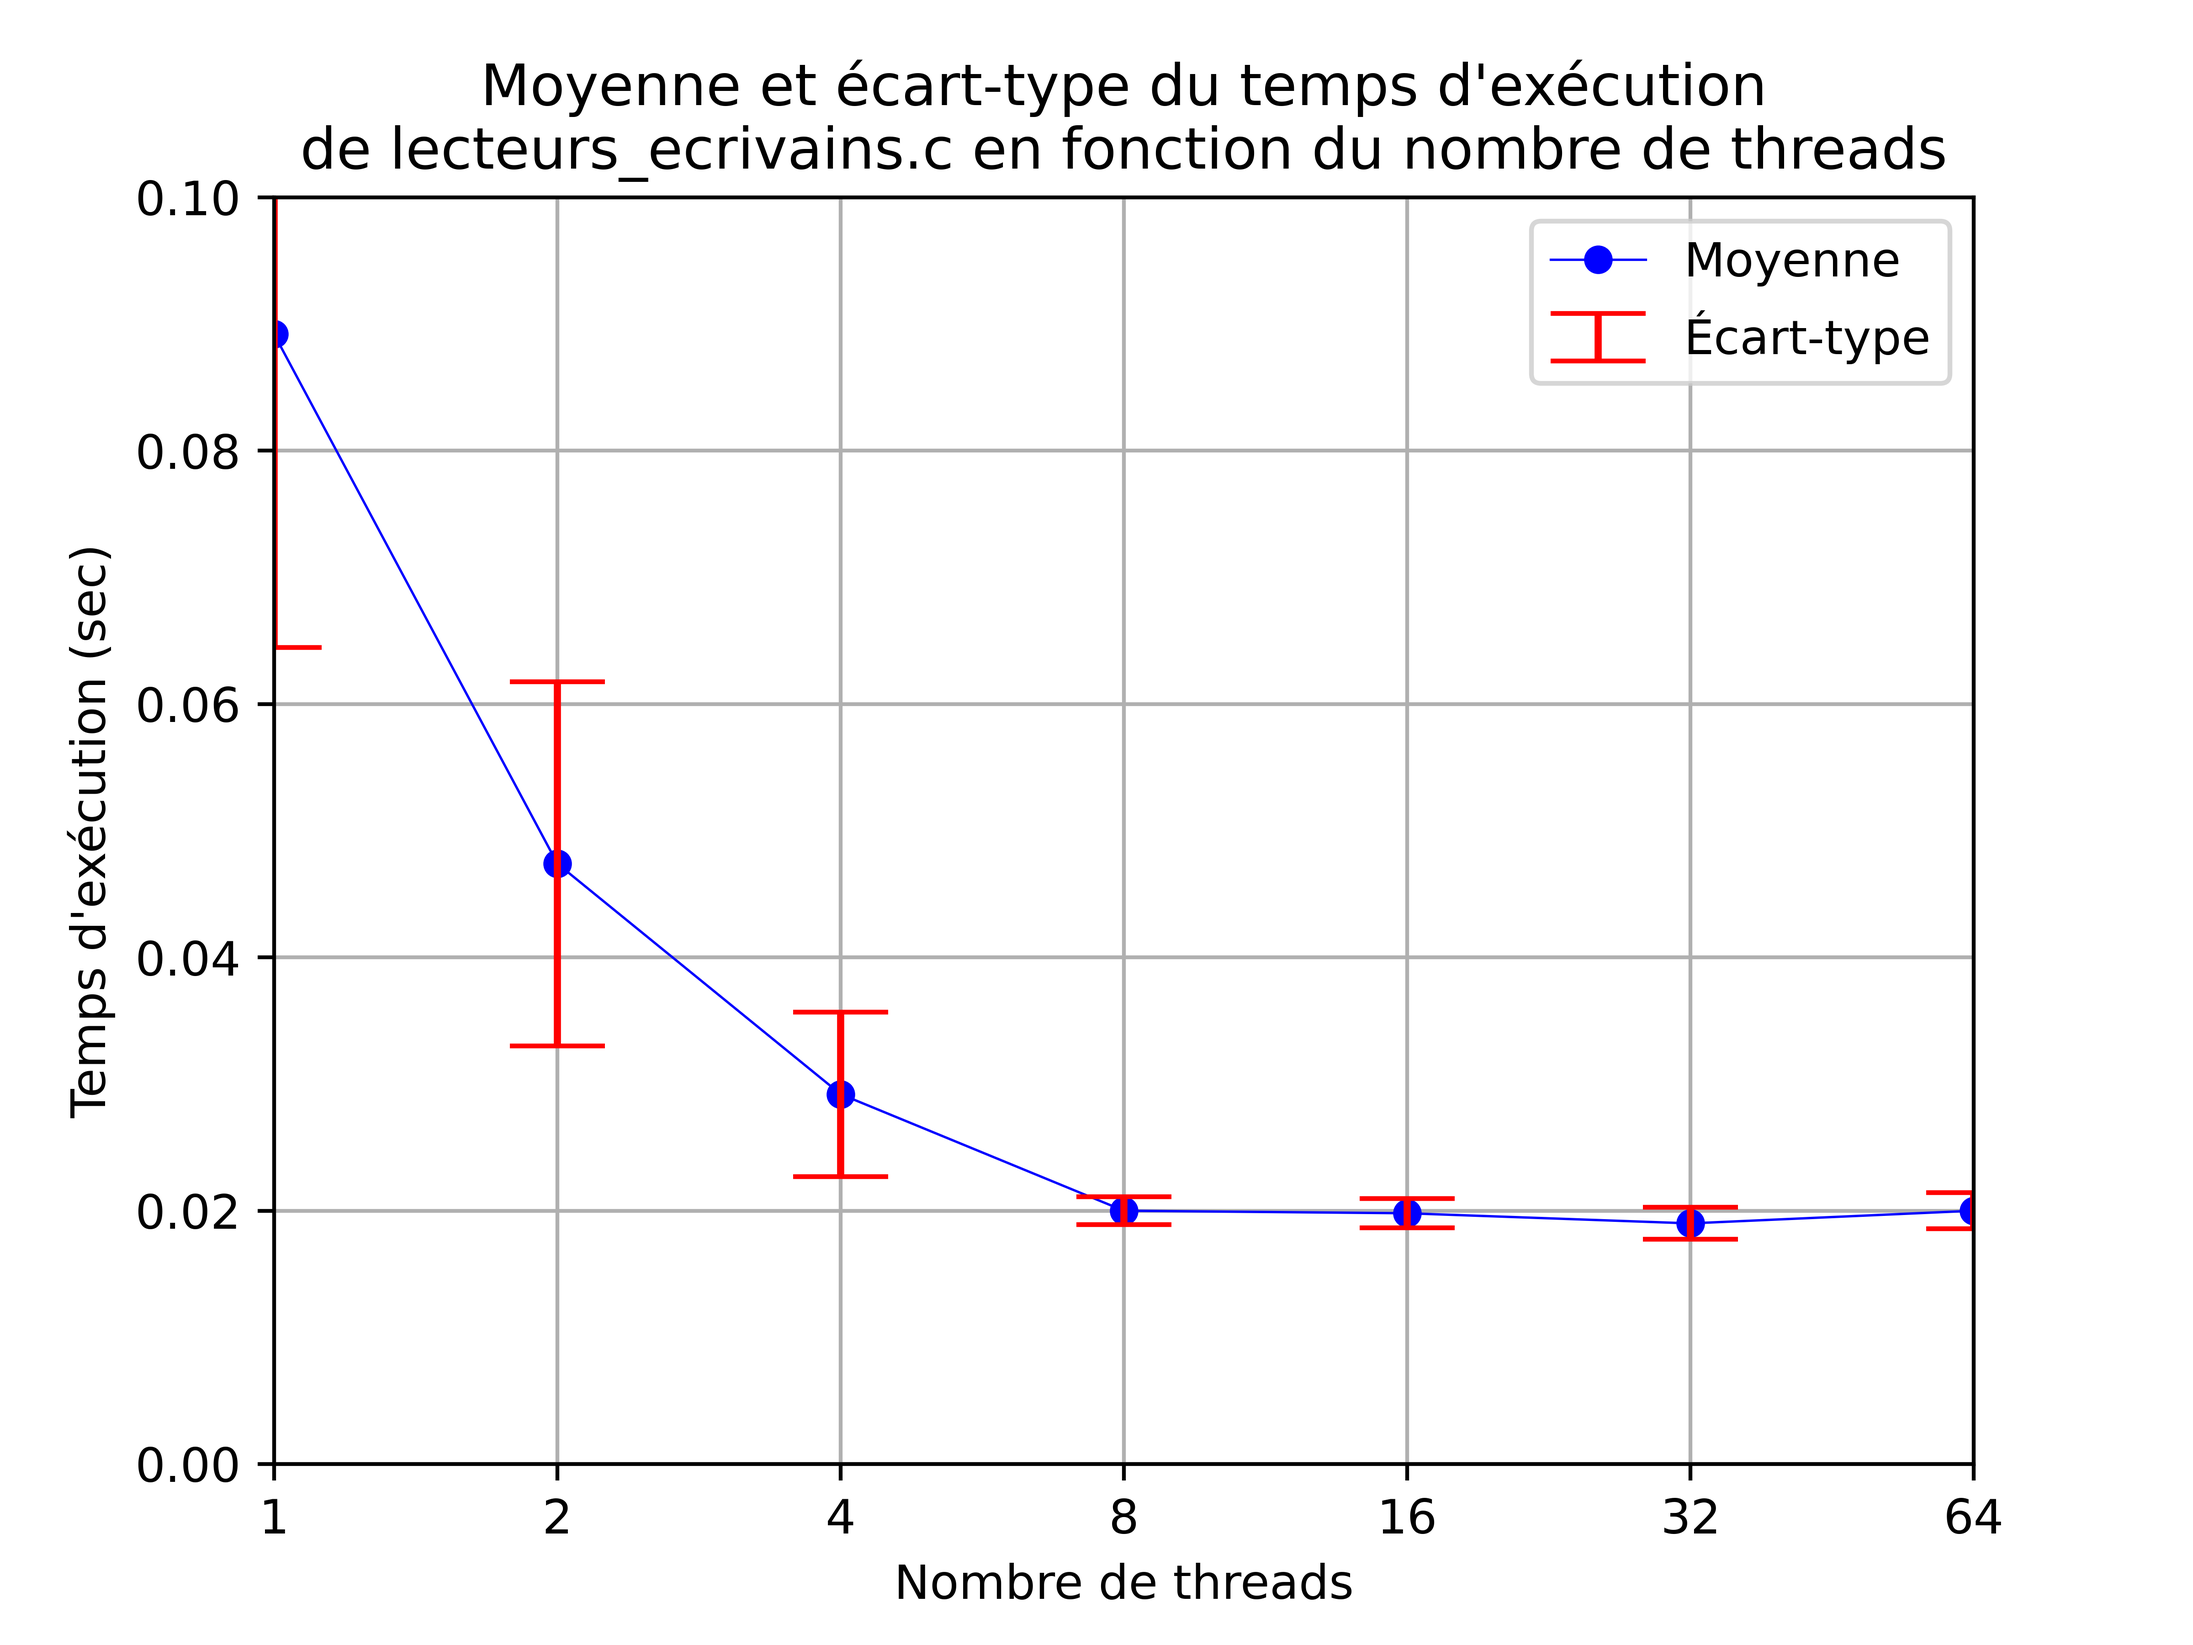
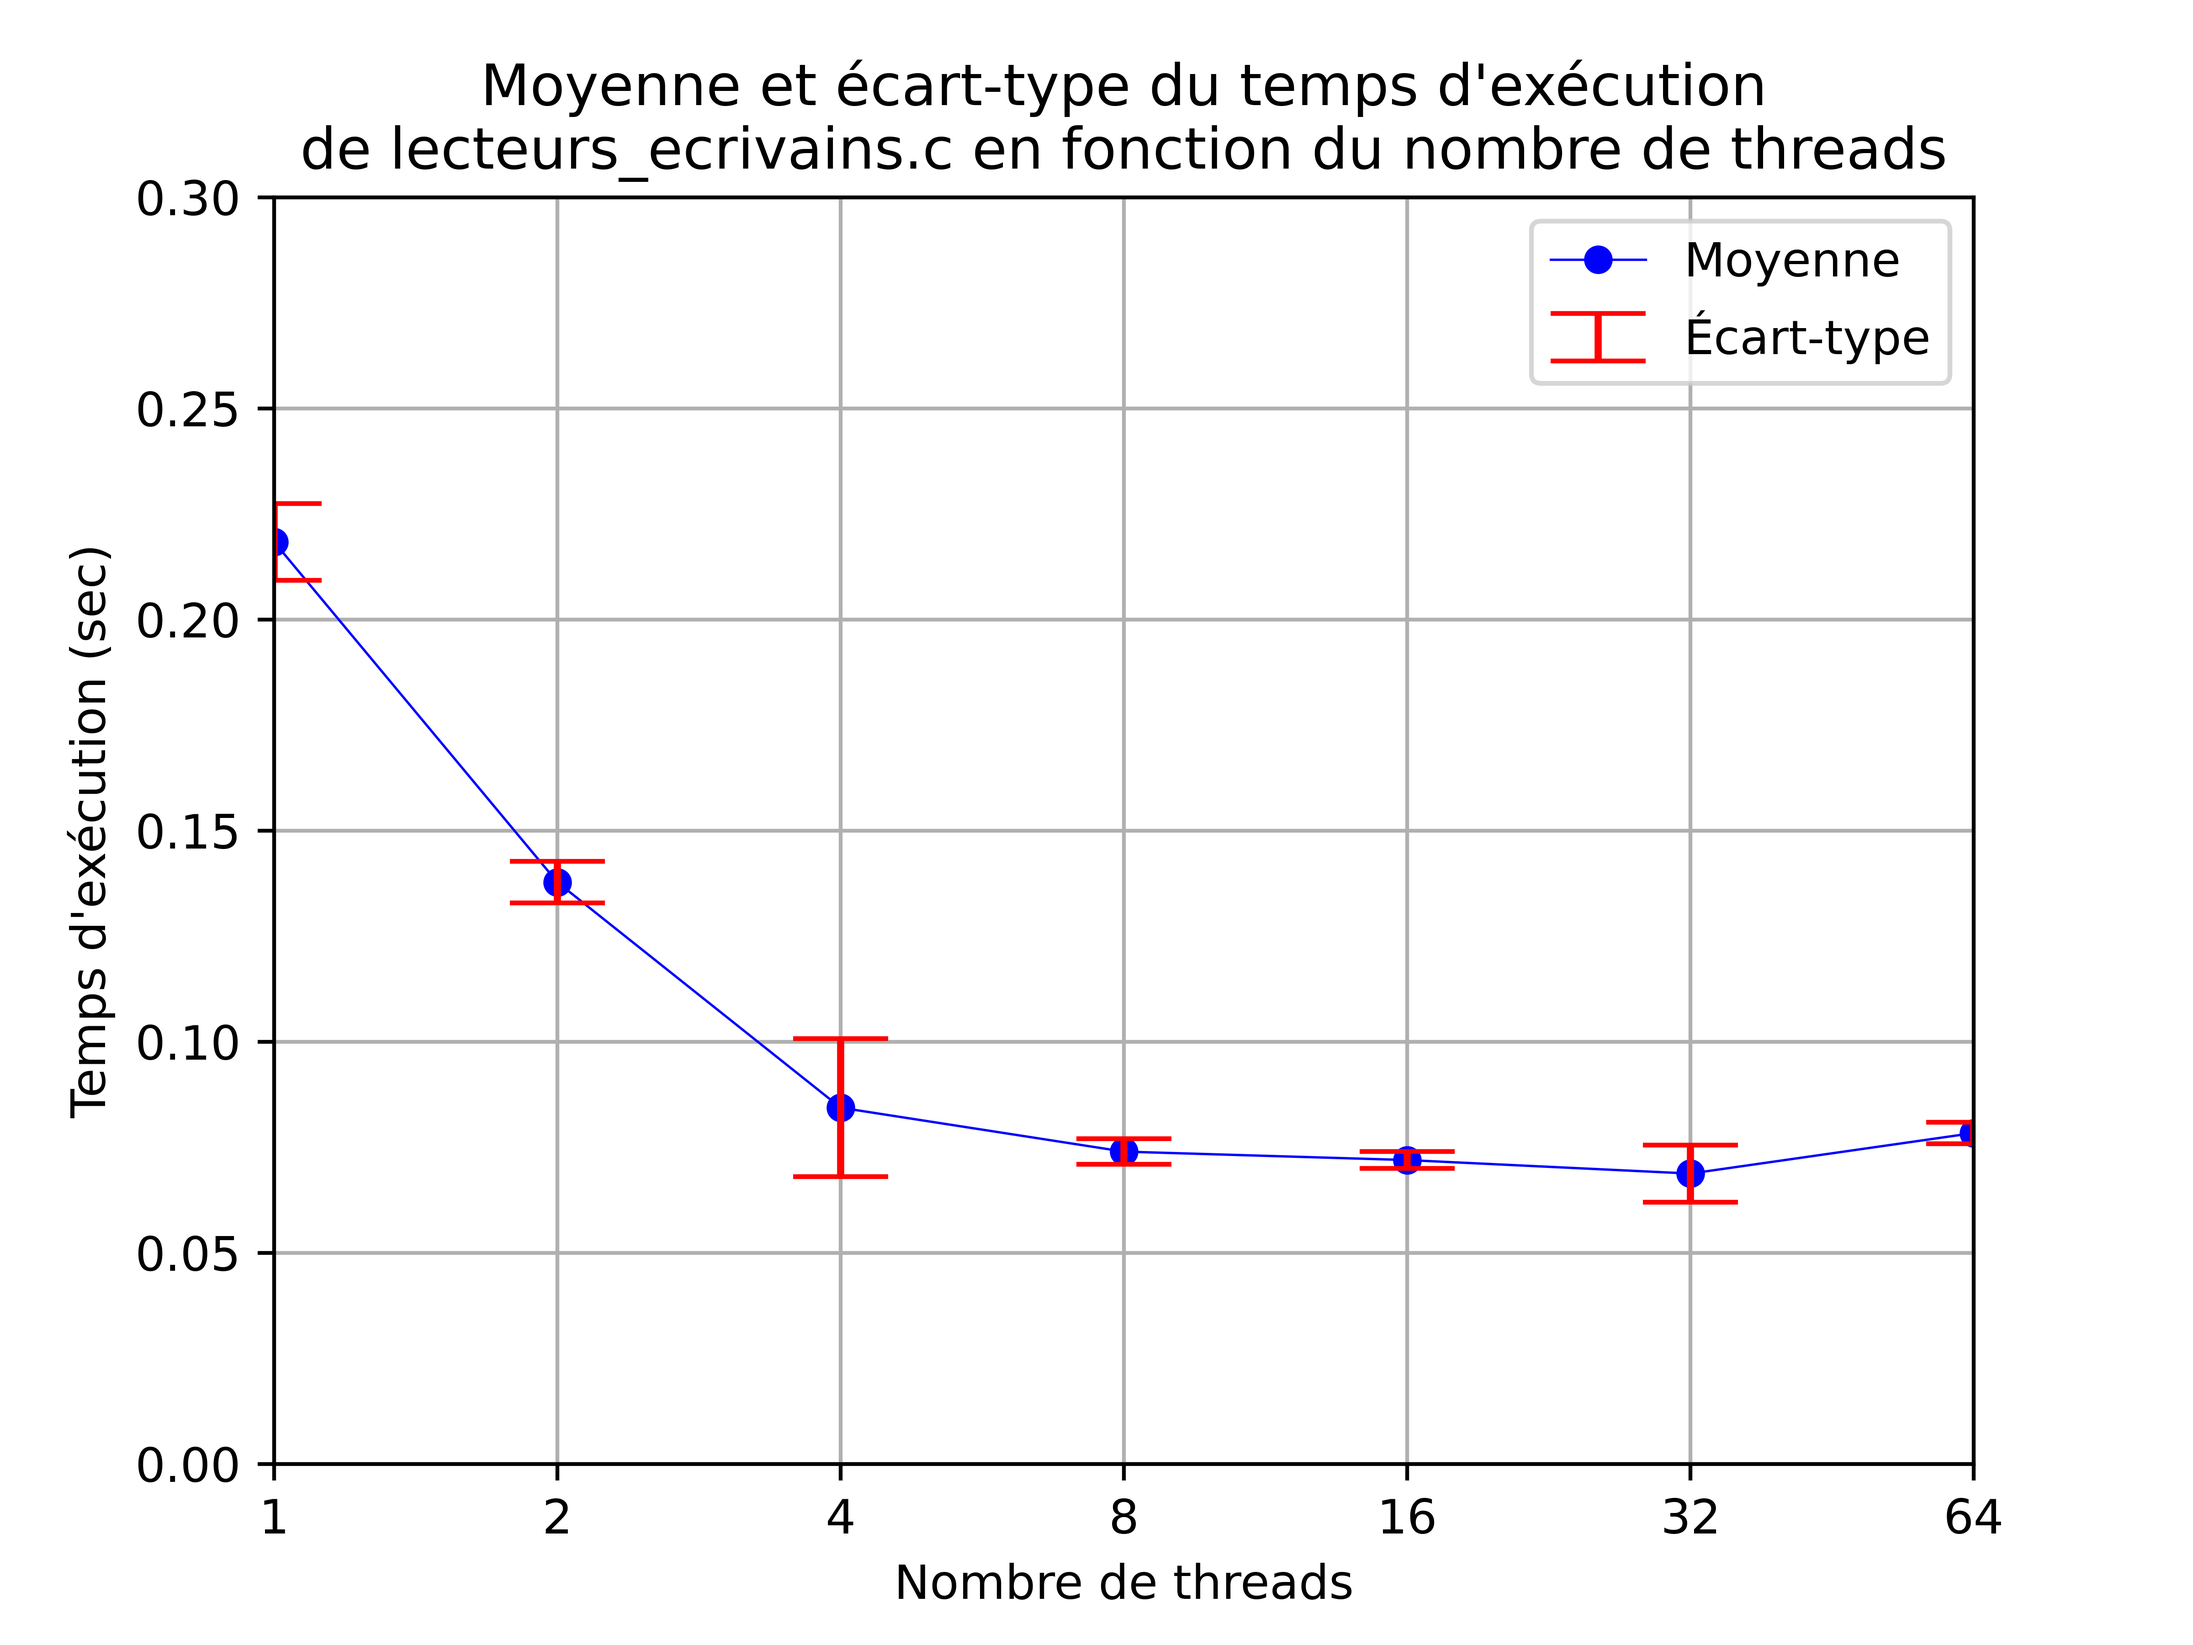
added INGI results and plotted them

diff --git a/plot.py b/plot.py
@@ -73,8 +73,7 @@ plt.legend(['Moyenne', 'Écart-type'], loc='best')
 plt.xlim(1, 6)
 plt.xticks(np.arange(7), [1, 2, 4, 8, 16, 32, 64])
 plt.xlabel('Nombre de threads')
-plt.yticks(np.linspace(0, 0.2, 6))
-plt.ylim(0, 0.2)
+plt.ylim(0, round(max(to_milli(Mean_philo)) + 0.1, 1))
 plt.ylabel('Temps d\'exécution (sec)')
 plt.title('Moyenne et écart-type du temps d\'exécution\nde philosophes.c en fonction du nombre de threads')
 plt.grid(True)
@@ -87,8 +86,7 @@ plt.legend(['Moyenne', 'Écart-type'], loc='best')
 plt.xlim(1, 6)
 plt.xticks(np.arange(7), [1, 2, 4, 8, 16, 32, 64])
 plt.xlabel('Nombre de threads')
-plt.yticks(np.linspace(0, 0.2, 6))
-plt.ylim(0, 0.2)
+plt.ylim(0, round(max(to_milli(Mean_prod_conso)) + 0.1, 1))
 plt.ylabel('Temps d\'exécution (sec)')
 plt.title('Moyenne et écart-type du temps d\'exécution\nde producteurs_consommateurs.c en fonction du nombre de threads')
 plt.grid(True)
@@ -101,9 +99,9 @@ plt.legend(['Moyenne', 'Écart-type'], loc='best')
 plt.xlim(1, 6)
 plt.xticks(np.arange(7), [1, 2, 4, 8, 16, 32, 64])
 plt.xlabel('Nombre de threads')
-plt.ylim(0, 0.1)
+plt.ylim(0, round(max(to_milli(Mean_read_write)) + 0.1, 1))
 plt.ylabel('Temps d\'exécution (sec)')
 plt.title('Moyenne et écart-type du temps d\'exécution\nde lecteurs_ecrivains.c en fonction du nombre de threads')
 plt.grid(True)
 plt.savefig("lecteurs_ecrivains_performances.png", dpi=750)
-# plt.show()
+plt.show()

diff --git a/README.md b/README.md
@@ -7,31 +7,55 @@
 -ref csv :
 
 Philos,1,2,3,4,5
+
 1,27,27,27,27,28
+
 2,83,84,85,114,94
+
 4,414,185,210,242,148
+
 8,323,324,326,348,423
+
 16,520,510,522,510,472
+
 32,712,891,801,792,832
+
 64,1552,1539,1576,1536,1508
 
+
 Prod-conso,1,2,3,4,5
+
 1,574,524,500,493,483
+
 2,296,288,292,300,290
+
 4,150,132,131,140,163
+
 8,89,86,83,71,105
+
 16,53,53,64,59,57
+
 32,54,54,57,56,63
+
 64,70,65,65,65,65
 
+
 Lect-ecriv,1,2,3,4,5
+
 1,224,225,218,224,201
+
 2,142,142,134,130,141
+
 4,102,62,91,99,68
+
 8,73,77,70,72,78
+
 16,71,69,73,75,72
+
 32,68,56,72,73,75
+
 64,76,82,77,81,76
+
 
 ## Partie 2 - TODO
 
